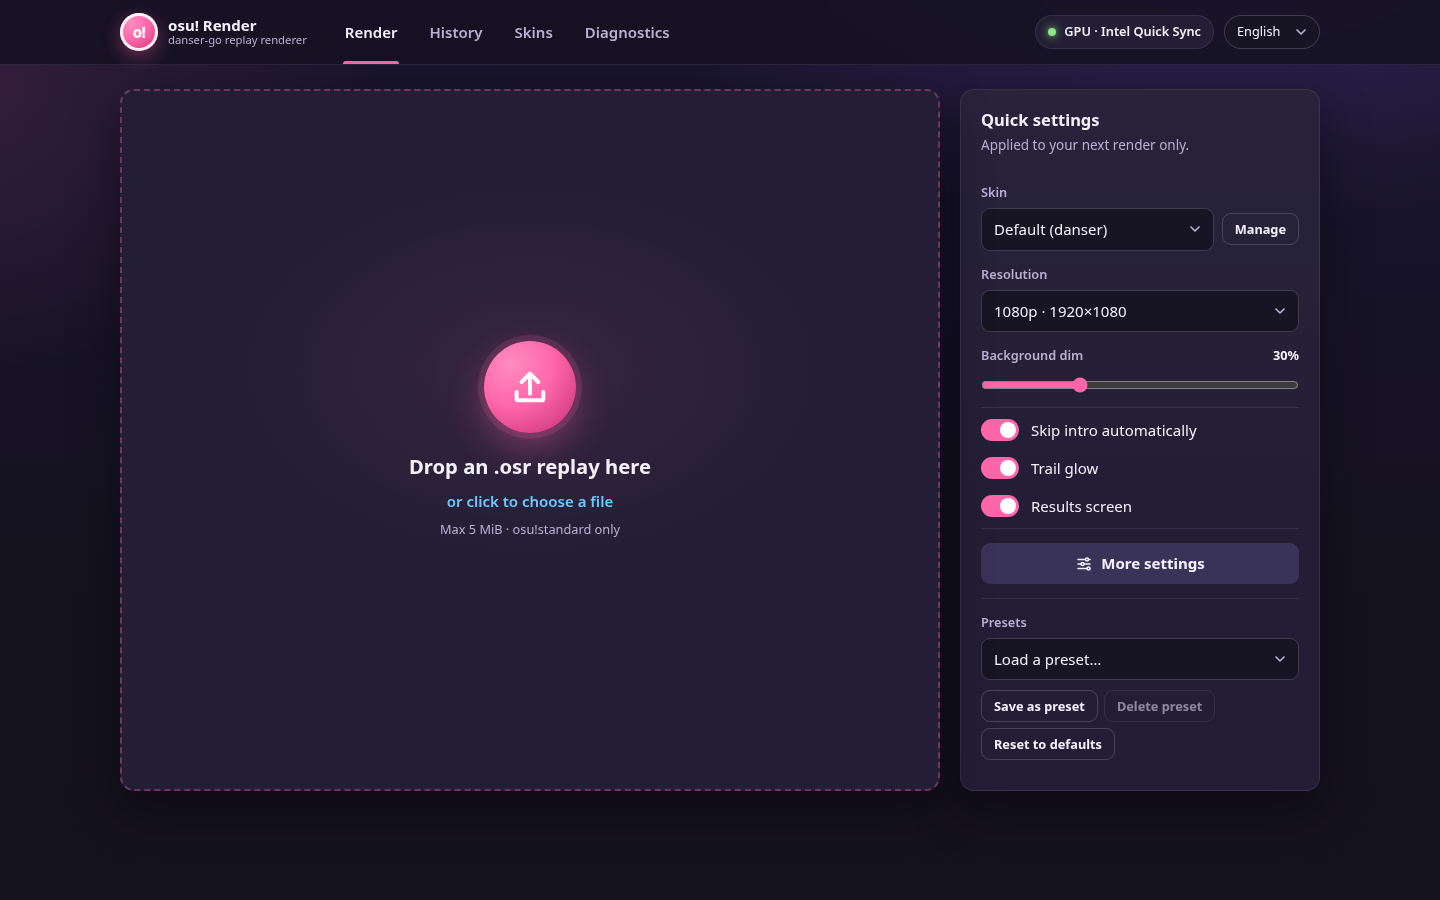
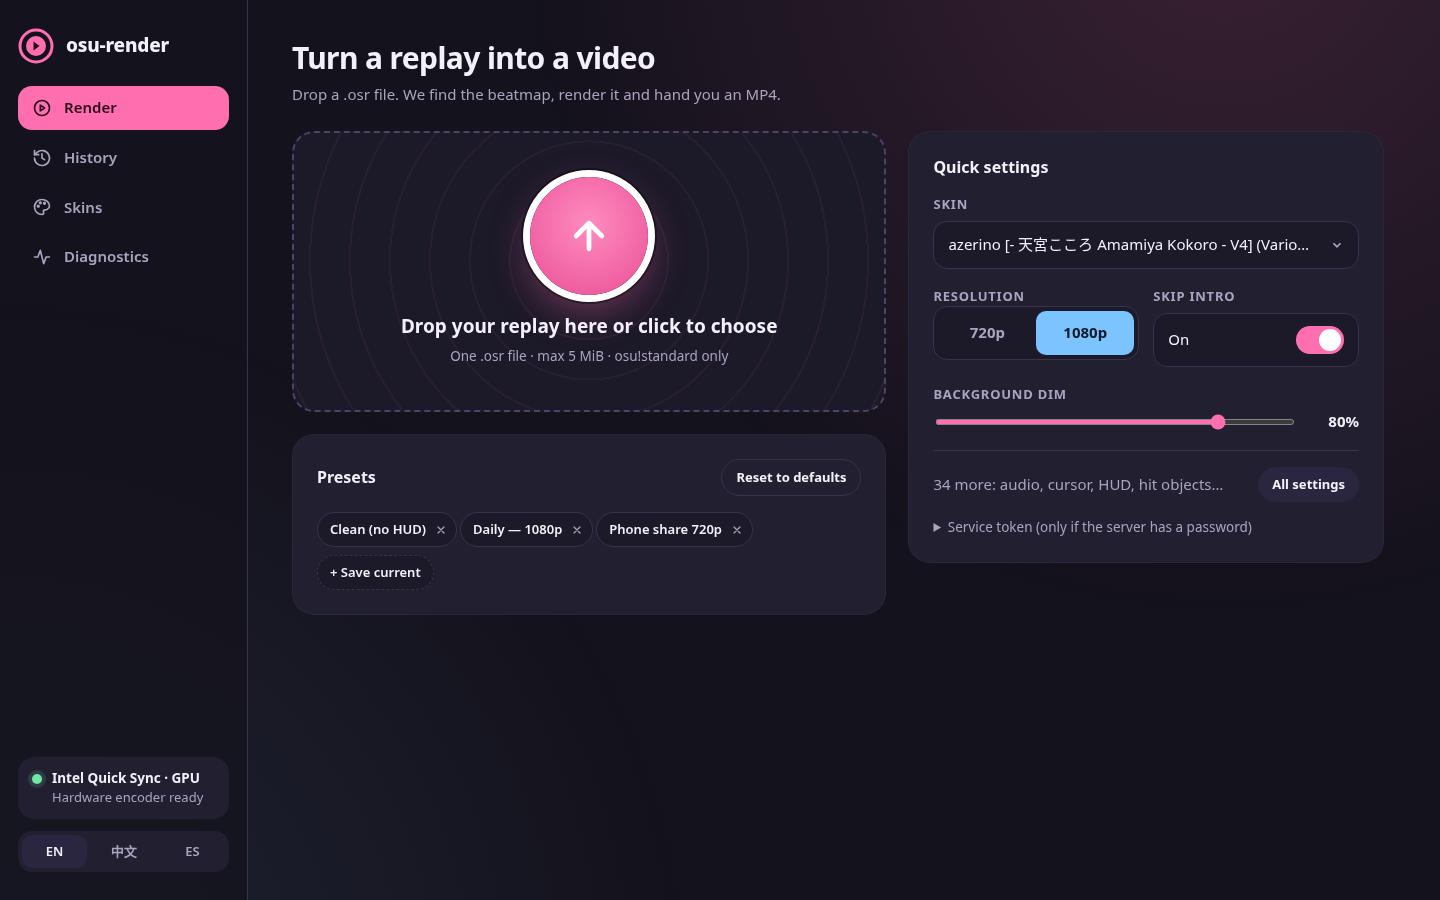
docs: screenshots and wording for the Approach UI
- new desktop and Spanish phone screenshots
- feature list, All settings and service token wording match the new layout

diff --git a/README.es.md b/README.es.md
@@ -9,8 +9,8 @@ con la API de osu!, lo descarga de un mirror, lo renderiza con danser y te entre
 (x264) cuando no.
 
 <p>
-  <img src="docs/screenshot-en.png" alt="Interfaz web de osu-render en escritorio: la pestaña Renderizar con la zona para soltar el replay y los ajustes rápidos" width="600">
-  <img src="docs/screenshot-mobile-es.png" alt="Pestaña Renderizar de osu-render en un celular, en español, con la barra de pestañas abajo" width="190">
+  <img src="docs/screenshot-en.png" alt="Interfaz web de osu-render en escritorio: la pestaña Renderizar con el hit circle para soltar el replay, los preajustes, los ajustes rápidos y el menú lateral" width="600">
+  <img src="docs/screenshot-mobile-es.png" alt="Pestaña Renderizar de osu-render en un celular, en español, con el aviso de actualización y la barra de pestañas flotante" width="190">
 </p>
 
 > **El soporte para Windows y NVIDIA/AMD es nuevo y necesita testers.** Si tienes uno de esos equipos, la forma
@@ -44,11 +44,12 @@ con la API de osu!, lo descarga de un mirror, lo renderiza con danser y te entre
 ## Funciones
 
 - Interfaz web con arrastrar y soltar, en English, 繁體中文 y Español, con las pestañas **Renderizar**, **Historial**,
-  **Skins** y **Diagnóstico** y un tema oscuro al estilo de osu!lazer (en el celular, las pestañas van abajo).
-- **Ajustes rápidos** junto a la zona para soltar el replay, el resto de opciones en el panel **Más ajustes** con
+  **Skins** y **Diagnóstico** y un tema oscuro hecho con formas de osu!: la zona para soltar es un hit circle y el progreso es un approach
+  circle (en el celular, las pestañas van en una barra flotante abajo).
+- **Ajustes rápidos** junto a la zona para soltar el replay, el resto de opciones en el panel **Todos los ajustes** con
   buscador, preajustes con nombre guardados en el navegador y **Restablecer**.
 - Vista paso a paso del trabajo (subido → buscando el mapa → descargando → en cola → renderizando → listo) con
-  porcentaje, velocidad de render y tiempo restante, y vista previa del video en la página al terminar. Si recargas
+  porcentaje en un approach circle, velocidad de render, tiempo restante y duración del mapa, y vista previa del video en la página al terminar. Si recargas
   la página, el render en curso se sigue mostrando.
 - Solo subes el replay. El mapa se busca por su checksum con la API de osu!, se descarga de mirrors
   configurables (si uno falla se prueba el siguiente) y se verifica contra el MD5 del replay antes de renderizar.
@@ -156,7 +157,7 @@ del zip, los enumera.
 Abre la pestaña **Skins** y suelta un archivo `.osk` (o haz clic para elegirlo). El skin se instala en el
 servidor y se usará en tu próximo render; después sigue en la lista para otros renders. **Usar en el próximo
 render** elige un skin instalado, igual que la lista **Skin** de **Ajustes rápidos** en la pestaña **Renderizar**.
-Activa **Usar el cursor del skin** (en **Más ajustes**) para usar el cursor del skin en lugar del de danser. Si subes un skin con el mismo nombre, reemplaza al anterior.
+Activa **Usar el cursor del skin** (en **Todos los ajustes**) para usar el cursor del skin en lugar del de danser. Si subes un skin con el mismo nombre, reemplaza al anterior.
 
 También puedes agregar skins a mano: copia la carpeta del skin (la que tiene `skin.ini`) o un archivo `.osk` a
 la carpeta de skins: `data\skins` en el zip portable, `data/skins` en otras instalaciones (se cambia con
@@ -337,7 +338,7 @@ dos GPUs y `danser.log`).
 Sí. En `.env` define `HOST=0.0.0.0` y un `AUTH_TOKEN` largo y aleatorio, y reinicia. Cuando Windows pregunte,
 permite que Node.js use redes **privadas** en el Firewall (o agrega una regla de entrada para el puerto TCP 3030).
 Tus amigos abren `http://<IP-de-tu-PC-en-la-red-local>:3030/` y escriben el token en el campo **Token del
-servicio** (en **Ajustes rápidos**; aparece cuando el servidor pide un token). Los renders van de uno en uno y cada cliente puede tener como máximo 3 trabajos sin terminar. No lo
+servicio** (abajo en **Ajustes rápidos**; se despliega solo cuando el servidor pide un token). Los renders van de uno en uno y cada cliente puede tener como máximo 3 trabajos sin terminar. No lo
 expongas a internet sin HTTPS, ver [Notas de seguridad](#notas-de-seguridad).
 
 ## Instalar desde el código fuente

diff --git a/README.md b/README.md
@@ -8,8 +8,8 @@ mirror, renders it with danser and gives you a 720p or 1080p, 60 FPS MP4. Video 
 (NVIDIA NVENC, AMD AMF or Intel Quick Sync) when it can and falls back to the CPU (x264) when it cannot.
 
 <p>
-  <img src="docs/screenshot-en.png" alt="osu-render web UI on desktop: the Render tab with the replay drop zone and quick settings" width="600">
-  <img src="docs/screenshot-mobile-es.png" alt="osu-render Render tab on a phone, in Spanish, with the bottom tab bar" width="190">
+  <img src="docs/screenshot-en.png" alt="osu-render web UI on desktop: the Render tab with the hit-circle drop zone, presets and quick settings, and the side rail" width="600">
+  <img src="docs/screenshot-mobile-es.png" alt="osu-render Render tab on a phone, in Spanish, with the update notice and the floating tab bar" width="190">
 </p>
 
 > **Windows and NVIDIA/AMD support is new and needs testers.** If you have one of those setups, the
@@ -43,11 +43,12 @@ mirror, renders it with danser and gives you a 720p or 1080p, 60 FPS MP4. Video 
 ## Features
 
 - Drag-and-drop web UI in English, 繁體中文 and Español with **Render**, **History**, **Skins** and **Diagnostics**
-  tabs in an osu!lazer-style dark theme (a bottom tab bar on phones).
-- Quick settings next to the drop zone, every other option in a searchable **More settings** panel, named
+  tabs in a dark theme built from osu! shapes: a hit-circle drop zone and an approach-ring progress meter (on
+  phones the tabs become a floating bottom bar).
+- Quick settings next to the drop zone, every other option in a searchable **All settings** panel, named
   presets saved in your browser and **Reset to defaults**.
-- Step-by-step job view (uploaded → finding beatmap → downloading → queued → rendering → done) with percent,
-  render speed and ETA, and an inline video preview when it finishes. A render in progress is picked up again
+- Step-by-step job view (uploaded → finding beatmap → downloading → queued → rendering → done) with an approach-ring percentage,
+  render speed, time left and map length, and an inline video preview when it finishes. A render in progress is picked up again
   after a page reload.
 - Upload only the replay. The beatmap is found by its checksum through the osu! API, downloaded from
   configurable mirrors (with fallback) and checked against the replay's MD5 before rendering.
@@ -149,7 +150,7 @@ lists them.
 Open the **Skins** tab and drop an `.osk` file on it (or click to choose one). The skin is installed on the
 server and selected for your next render; it stays in the list for later renders. **Use for next render** picks
 an installed skin, and the **Skin** list in **Quick settings** on the **Render** tab does the same. Turn on
-**Use the skin's cursor** (under **More settings**) to draw the skin's cursor instead of danser's. Uploading a skin with the same name
+**Use the skin's cursor** (under **All settings**) to draw the skin's cursor instead of danser's. Uploading a skin with the same name
 replaces the old one.
 
 You can also add skins by hand: copy a skin folder (the one that contains `skin.ini`) or an `.osk` file into
@@ -319,7 +320,7 @@ danser's OpenGL drawing is chosen by Windows/the driver and can be a different G
 **Can friends on my LAN use it?**
 Yes. In `.env` set `HOST=0.0.0.0` and a long random `AUTH_TOKEN`, then restart. Allow Node.js through the
 Windows Firewall on **private** networks when Windows asks (or add an inbound rule for TCP port 3030). Friends
-open `http://<your-PC's-LAN-IP>:3030/` and enter the token in the **Service token** field (in **Quick settings**; it appears when the server asks for a token). Renders run one at a
+open `http://<your-PC's-LAN-IP>:3030/` and enter the token under **Service token** at the bottom of **Quick settings** (it opens by itself when the server asks for a token). Renders run one at a
 time and each client can have at most 3 unfinished jobs. Do not expose it to the internet without HTTPS, see
 [Security notes](#security-notes).
 
